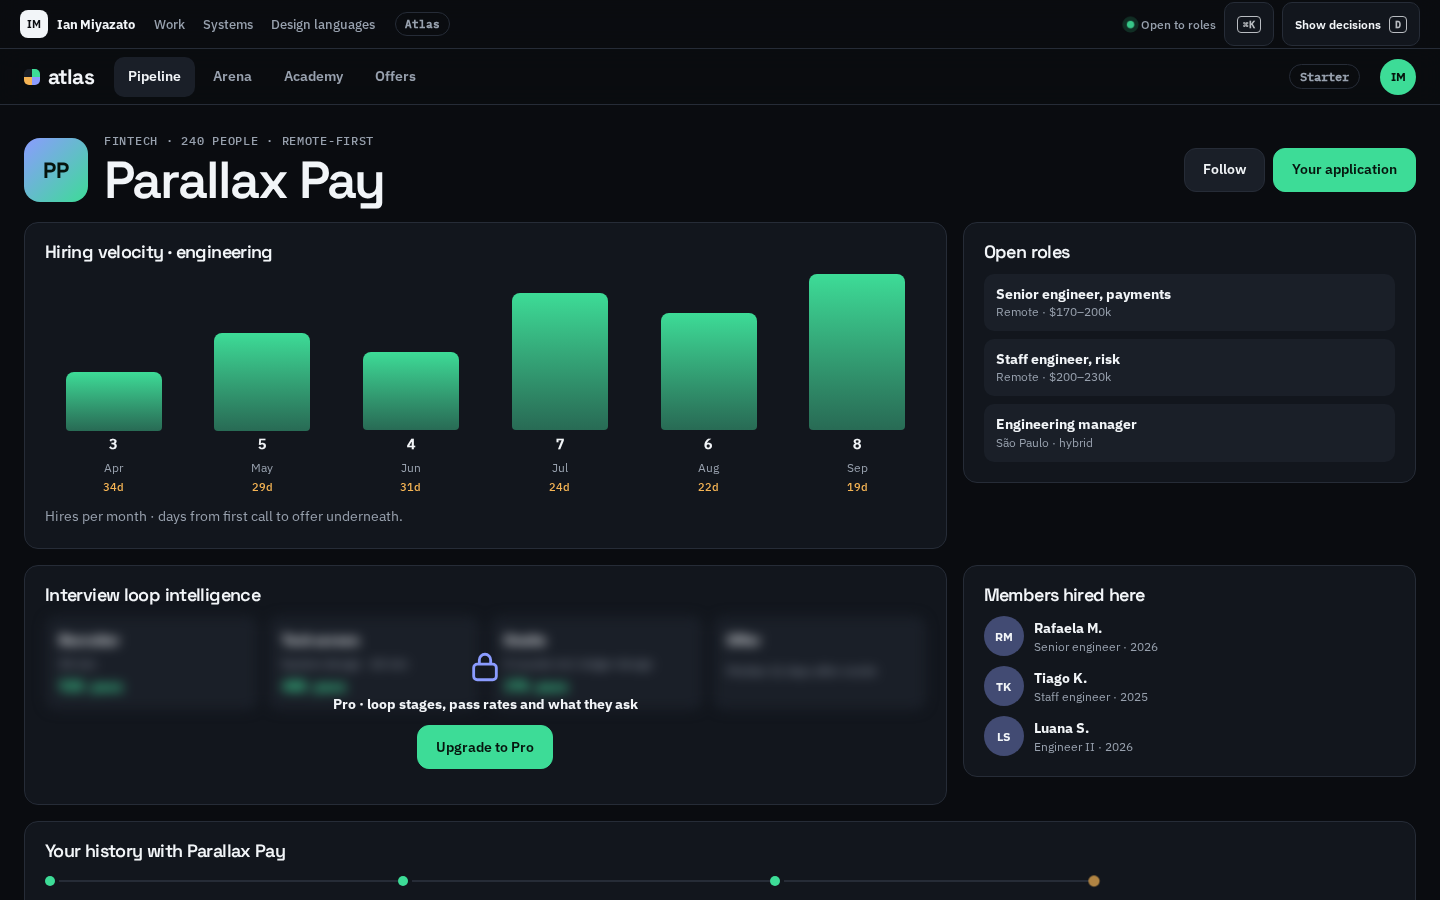
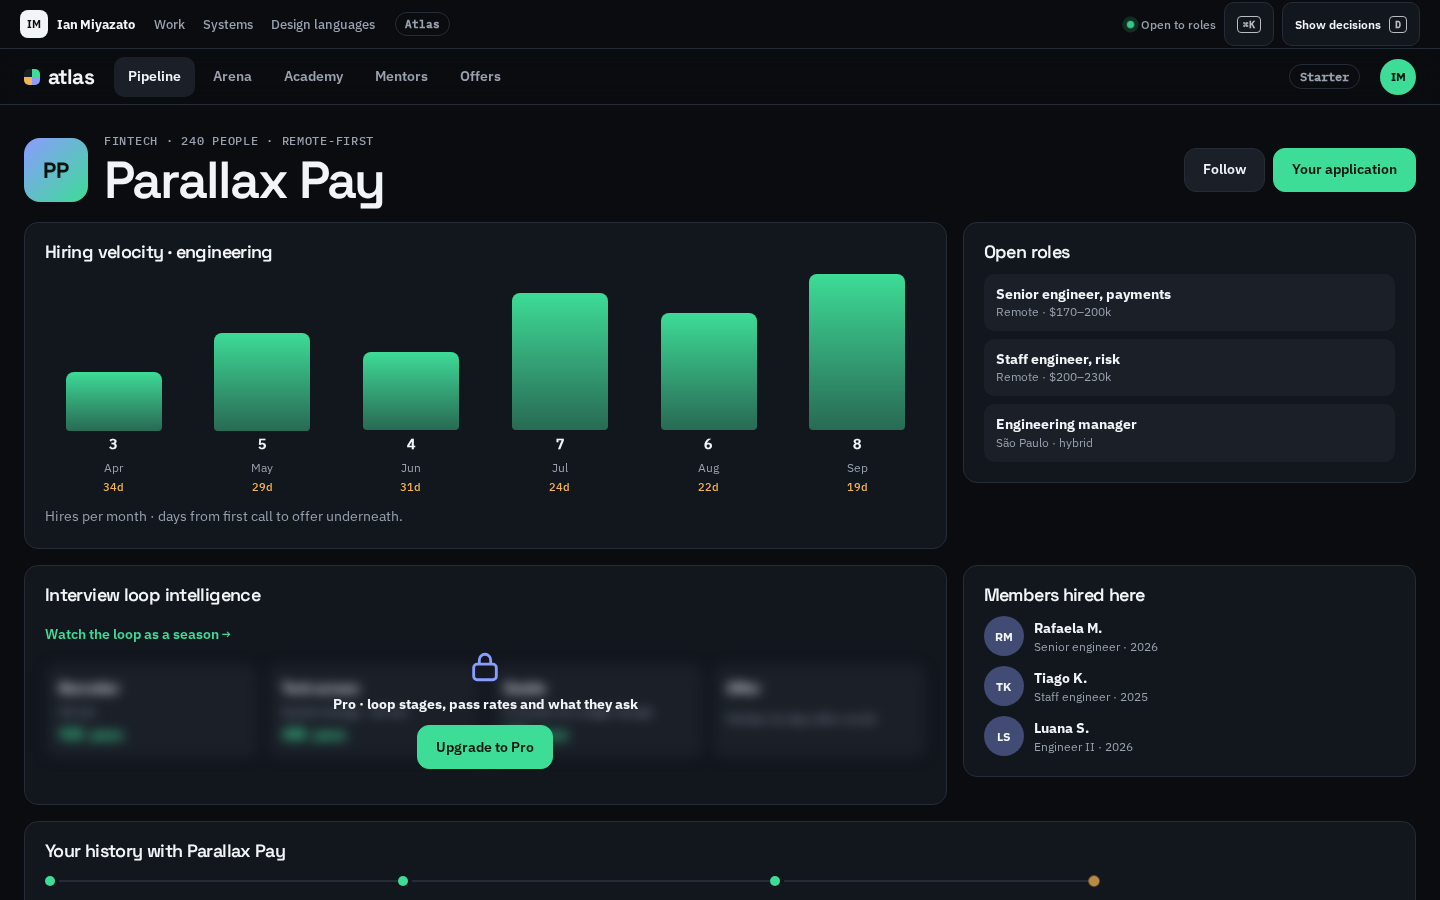
feat(atlas): company interview loop as a season with autoplay into the shared player

diff --git a/apps/shell/components/atlas/loop.tsx b/apps/shell/components/atlas/loop.tsx
@@ -1,0 +1,120 @@
+'use client';
+
+import { useEffect, useState } from 'react';
+import { playQueue } from '@portfolio/chrome/now-playing';
+import { DEFAULT_START, MINUTE, clock } from '@portfolio/world';
+import { ZLink } from '@/components/zone-link';
+import { Layer, closeLayers, openLayer, useDemoState, useParams } from '@/components/overlay';
+import { useSimNow } from '@/lib/world';
+import { loopSeason, weakestArea, type Episode } from '@/lib/atlas';
+import { AtlasHeader } from './header';
+import { TitleArt } from './browse';
+
+const HREF = `/atlas/academy/loops/${loopSeason.slug}`;
+const LABEL = `${loopSeason.company}: The Loop`;
+const NEW_REPORT_AT = DEFAULT_START + 6 * MINUTE;
+const runtime = (minutes: number) => (minutes >= 60 ? `${Math.floor(minutes / 60)} h${minutes % 60 ? ` ${minutes % 60} min` : ''}` : `${minutes} min`);
+
+function play(episodes: Episode[], index: number) {
+  playQueue('atlas', LABEL, HREF, episodes.map((episode) => ({ id: `ep-${episode.n}`, title: `Ep ${episode.n} · ${episode.title}`, subtitle: `${loopSeason.company} · Season ${loopSeason.season}`, seconds: Math.min(episode.minutes, 60) * 60, cover: `E${episode.n}` })), index);
+}
+
+/** "Next episode in 8": counts down, then starts episode 3 on the shared player, unless the member picks practice or stays. */
+function Autoplay({ next, onPlay }: { next: Episode; onPlay: () => void }) {
+  const [left, setLeft] = useState(8);
+  const [stopped, setStopped] = useState(false);
+  useEffect(() => { if (matchMedia('(prefers-reduced-motion: reduce)').matches) setStopped(true); }, []);
+  useEffect(() => {
+    if (stopped) return;
+    if (left <= 0) { onPlay(); setStopped(true); return; }
+    const timer = window.setTimeout(() => setLeft(left - 1), 1000);
+    return () => window.clearTimeout(timer);
+  }, [left, stopped]);
+  return (
+    <aside className="lp-autoplay" aria-labelledby="lp-next-title" data-anchor="lp-autoplay">
+      <span className="lp-ring" aria-hidden="true" style={{ '--p': stopped ? 1 : (8 - left) / 8 } as React.CSSProperties}><b>{stopped ? '▶' : left}</b></span>
+      <div>
+        <span className="at-eyebrow">You finished episode 2</span>
+        <h2 id="lp-next-title">{stopped ? `Up next: episode ${next.n}` : `Next episode in ${left}`}</h2>
+        <p className="at-muted">Ep {next.n} · {next.title} · {runtime(next.minutes)}</p>
+      </div>
+      <div className="lp-autoplay-actions">
+        <button type="button" className="at-btn primary" onClick={() => { setStopped(true); onPlay(); }}>Play now</button>
+        <ZLink className="at-btn" href={`/atlas/arena?modal=setup&prompt=${next.drill}`}>Practice episode {next.n} first</ZLink>
+        {!stopped && <button type="button" className="at-btn" onClick={() => setStopped(true)}>Stay here</button>}
+      </div>
+    </aside>
+  );
+}
+
+export function LoopSeason() {
+  const state = useDemoState();
+  const params = useParams();
+  const now = useSimNow(5000) ?? DEFAULT_START;
+  const assembling = state === 'generating';
+  const [notify, setNotify] = useState(false);
+  const episodes = loopSeason.episodes.map((episode) => ({ ...episode, assembling: assembling && episode.n > 3 }));
+  const ready = episodes.filter((episode) => !episode.assembling);
+  const reports = loopSeason.reports + (now >= NEW_REPORT_AT ? 1 : 0);
+  const open = episodes.find((episode) => String(episode.n) === params.get('episode'));
+  const next = episodes[2]!;
+
+  return (
+    <>
+      <AtlasHeader active="Academy" />
+      <main className="lp" data-anchor="lp-main">
+        <section className="ab-billboard lp-billboard" aria-labelledby="lp-title" data-anchor="lp-billboard">
+          <div className="ab-bb-art" aria-hidden="true"><TitleArt motif="ledger" focus={weakestArea} label={LABEL} shape="cover" /></div>
+          <div className="ab-bb-copy">
+            <span className="ab-new">{assembling ? 'Assembling' : 'New season'} · {ready.length} of 5 episodes</span>
+            <h1 id="lp-title">{loopSeason.company}: The Loop</h1>
+            <p className="ab-facts"><b className="ab-match">{loopSeason.match}% match</b><span>Season {loopSeason.season}</span><span data-anchor="lp-reports">built from {reports} member reports{now >= NEW_REPORT_AT ? ` · new ${clock(NEW_REPORT_AT)}` : ''}</span></p>
+            <p className="ab-blurb">Every round of the Parallax Pay loop as an episode: what they ask, how it&apos;s graded and where people fail, straight from members who sat it this year.</p>
+            <div className="ab-actions">
+              <button type="button" className="at-btn primary ab-play" onClick={() => play(ready, 2)}><span aria-hidden="true">▶</span> Play episode 3</button>
+              {assembling && <button type="button" className="at-btn" aria-pressed={notify} onClick={() => setNotify(!notify)} data-anchor="lp-notify">{notify ? '✓ We’ll notify you' : 'Notify me when complete'}</button>}
+            </div>
+          </div>
+        </section>
+
+        <div className="lp-body">
+          <section className="lp-episodes" aria-labelledby="lp-ep-title" data-anchor="lp-episodes">
+            <h2 id="lp-ep-title">Episodes</h2>
+            <ol>
+              {episodes.map((episode) => (
+                <li key={episode.n} className={`lp-ep ${episode.assembling ? 'is-assembling' : ''}`}>
+                  <button type="button" className="lp-ep-main" onClick={() => openLayer({ episode: String(episode.n) })} disabled={episode.assembling} aria-label={`Episode ${episode.n}: ${episode.title}${episode.assembling ? ', still assembling' : ''}`}>
+                    <span className="lp-num">{episode.n}</span>
+                    <span className="lp-thumb">
+                      {episode.assembling ? <span className="lp-assembling">Needs 2 more reports</span> : <TitleArt motif={episode.motif} focus={weakestArea} label={episode.title} />}
+                      {episode.progress > 0 && <span className="ab-card-progress" role="progressbar" aria-label="Watched" aria-valuemin={0} aria-valuemax={100} aria-valuenow={Math.round(episode.progress * 100)}><i style={{ width: `${episode.progress * 100}%` }} /></span>}
+                    </span>
+                    <span className="lp-copy"><b>{episode.title}</b><small>{runtime(episode.minutes)} · {episode.pass}</small><span>{episode.assembling ? 'Two more member reports and this episode goes live.' : episode.synopsis}</span></span>
+                  </button>
+                </li>
+              ))}
+            </ol>
+          </section>
+          <div className="lp-side">
+            {!assembling && <Autoplay next={next} onPlay={() => play(ready, 2)} />}
+            <section className="at-card lp-passed" aria-labelledby="lp-passed-title" data-anchor="lp-passed">
+              <h2 id="lp-passed-title">Members who passed</h2>
+              <p className="lp-stat"><b>{loopSeason.passed}</b> members this year · median offer <b>{loopSeason.medianOffer}</b></p>
+              <ul className="at-members">{[['RM', 'Rafaela M.', 'Senior engineer · Jun'], ['TK', 'Tiago K.', 'Staff engineer · Apr'], ['LS', 'Luana S.', 'Senior engineer · Aug']].map(([initials, name, role]) => <li key={name}><span className="at-av">{initials}</span><div><strong>{name}</strong><small>{role}</small></div></li>)}</ul>
+            </section>
+          </div>
+        </div>
+      </main>
+
+      {open && !open.assembling && (
+        <Layer kind="modal" title={`Episode ${open.n} · ${open.title}`} eyebrow={`${loopSeason.company} · ${runtime(open.minutes)} · ${open.pass}`} onClose={() => closeLayers(['episode'])} width={620} anchor="lp-episode"
+          footer={<><button type="button" className="at-btn primary" onClick={() => { play(ready, open.n - 1); closeLayers(['episode']); }}>Play episode</button><ZLink className="at-btn" href={`/atlas/arena?modal=setup&prompt=${open.drill}`}>Practice this in Arena</ZLink></>}>
+          <div className="lp-ep-art"><TitleArt motif={open.motif} focus={weakestArea} label={open.title} /></div>
+          <p>{open.synopsis}</p>
+          <h3 className="lp-asked">What members were asked</h3>
+          <ul className="lp-quotes">{open.asked.map((quote) => <li key={quote}><q>{quote}</q></li>)}</ul>
+        </Layer>
+      )}
+    </>
+  );
+}

diff --git a/apps/shell/app/atlas/atlas.css b/apps/shell/app/atlas/atlas.css
@@ -569,3 +569,38 @@
 @keyframes tr-fill { from { transform: scaleX(0); } to { transform: scaleX(1); } }
 @media (prefers-reduced-motion: reduce) { .lm-mentor.on .lm-pulse, .lm-me.is-searching .lm-ring, .lm-steps .now i::after { animation: none; } .lm-route { animation: none; stroke-dashoffset: 0; } }
 @media (max-width: 1000px) { .lm { grid-template-columns: 1fr; padding: 12px 16px 40px; } }
+
+/* Company loop seasons ---------------------------------------------------------------------------- */
+.at-season-link { justify-self: start; display: inline-flex; align-items: center; min-height: 36px; color: var(--accent-text); font-weight: 600; font-size: 14px; }
+.lp-billboard { min-height: 440px; }
+.lp-body { display: grid; grid-template-columns: minmax(0, 1fr) 360px; gap: 20px; padding: 8px 24px 48px; align-items: start; }
+.lp-episodes h2 { margin: 0 0 10px; font: 600 22px var(--font-display); }
+.lp-episodes ol { display: grid; gap: 6px; margin: 0; padding: 0; list-style: none; }
+.lp-ep-main { display: grid; grid-template-columns: 36px 220px minmax(0, 1fr); gap: 16px; align-items: center; width: 100%; padding: 12px; border: 0; border-radius: var(--radius); background: transparent; color: var(--ink); text-align: left; cursor: pointer; }
+.lp-ep-main:hover, .lp-ep-main:focus-visible { background: var(--surface-2); }
+.lp-ep-main:focus-visible { outline: 3px solid var(--accent); outline-offset: 2px; }
+.lp-ep-main:disabled { cursor: default; }
+.lp-num { color: var(--muted); font: 700 28px var(--font-display); text-align: center; }
+.lp-thumb { position: relative; display: block; overflow: hidden; aspect-ratio: 16 / 9; border-radius: var(--radius-sm); background: var(--surface-2); }
+.lp-thumb .ta { display: block; width: 100%; height: 100%; }
+.lp-assembling { display: grid; place-items: center; height: 100%; border: 1px dashed var(--line); border-radius: var(--radius-sm); color: var(--muted); font: 500 12px var(--font-mono); }
+.lp-copy { display: grid; gap: 4px; }
+.lp-copy b { font: 600 17px var(--font-display); }
+.lp-copy small { color: var(--muted); font: 500 12px var(--font-mono); }
+.lp-copy span { font-size: 14px; line-height: 1.5; }
+.lp-ep.is-assembling .lp-copy span { color: var(--muted); }
+.lp-side { position: sticky; top: 124px; display: grid; gap: 14px; }
+.lp-autoplay { display: grid; grid-template-columns: 64px 1fr; gap: 14px; align-items: center; padding: 18px; border: 1px solid var(--accent); border-radius: var(--radius); background: color-mix(in srgb, var(--accent) 8%, var(--surface)); }
+.lp-autoplay h2 { margin: 2px 0; font: 600 20px var(--font-display); }
+.lp-autoplay p { margin: 0; }
+.lp-autoplay-actions { grid-column: 1 / -1; display: flex; flex-wrap: wrap; gap: 8px; }
+.lp-ring { display: grid; place-items: center; width: 64px; height: 64px; border-radius: 50%; background: conic-gradient(var(--accent) calc(var(--p) * 360deg), var(--surface-2) 0); }
+.lp-ring b { display: grid; place-items: center; width: 50px; height: 50px; border-radius: 50%; background: var(--surface); font: 700 22px var(--font-mono); }
+.lp-stat { margin: 0 0 10px; }
+.lp-stat b { color: var(--accent-text); }
+.lp-ep-art { overflow: hidden; margin-bottom: 12px; border-radius: var(--radius-sm); }
+.lp-ep-art .ta { display: block; width: 100%; }
+.lp-asked { margin: 14px 0 6px; font: 600 15px var(--font-display); }
+.lp-quotes { display: grid; gap: 6px; margin: 0; padding: 0; list-style: none; }
+.lp-quotes li { padding: 10px 12px; border-radius: var(--radius-sm); background: var(--surface-2); }
+@media (max-width: 1000px) { .lp-body { grid-template-columns: 1fr; padding: 8px 16px 40px; } .lp-side { position: static; } .lp-ep-main { grid-template-columns: 28px 120px minmax(0, 1fr); gap: 10px; } }

diff --git a/apps/shell/lib/atlas.ts b/apps/shell/lib/atlas.ts
@@ -224,3 +224,17 @@ export const continents = [
   'M610 50 L760 40 L900 60 L930 110 L880 160 L820 200 L790 240 L740 230 L700 220 L650 180 L615 130 Z',
   'M815 290 L880 280 L925 310 L920 350 L870 360 L825 345 Z'
 ];
+
+/* Company loop seasons ---------------------------------------------------------------------------- */
+
+export type Episode = { n: number; title: string; minutes: number; progress: number; motif: Motif; synopsis: string; asked: string[]; pass: string; drill: string; assembling?: boolean };
+export const loopSeason = {
+  company: 'Parallax Pay', slug: 'parallax-pay', season: 2026, match: 94, reports: 14, passed: 6, medianOffer: '$182k',
+  episodes: [
+    { n: 1, title: 'Recruiter screen', minutes: 30, progress: 1, motif: 'feed', synopsis: 'Level calibration, remote setup and notice period. They want a clear story of your last two systems.', asked: ['Walk me through the last system you owned end to end.', 'Why payments, and why now?'], pass: '92% pass', drill: 'conflict' },
+    { n: 2, title: 'Take-home', minutes: 180, progress: 1, motif: 'retry', synopsis: 'Reconcile two CSV exports of card settlements. Idempotency and tests are graded above speed.', asked: ['How does your job behave if it runs twice?', 'What happens with a partial file?'], pass: '71% pass', drill: 'queue-backpressure' },
+    { n: 3, title: 'System design', minutes: 60, progress: 0, motif: 'ledger', synopsis: 'Design a ledger for card payments. Expect reversals, idempotency keys and a 10× Black Friday follow-up.', asked: ['Where does the balance live, and who can write it?', 'A reversal arrives before the capture. Now what?'], pass: '48% pass', drill: 'payments-ledger' },
+    { n: 4, title: 'Coding', minutes: 45, progress: 0, motif: 'limit', synopsis: 'A sliding-window rate limiter. They ask for complexity, tests and what breaks across two regions.', asked: ['Make it work per merchant and per card.', 'How do you test the window edge?'], pass: '55% pass', drill: 'rate-limiter' },
+    { n: 5, title: 'Bar raiser', minutes: 45, progress: 0, motif: 'queue', synopsis: 'Behavioral depth with a senior leader: a decision you got wrong, and what you changed after.', asked: ['Tell me about a disagreement you lost.', 'What would your last manager push you on?'], pass: '37% pass', drill: 'conflict' }
+  ] as Episode[]
+};

diff --git a/tests/e2e/atlas.spec.ts b/tests/e2e/atlas.spec.ts
@@ -161,4 +161,27 @@ test.describe('Atlas', () => {
     await page.getByRole('button', { name: 'Find a mentor' }).click();
     await expect(page.getByRole('dialog', { name: 'No mentor free right now' })).toBeVisible();
   });
+
+  test('loop season: episodes, autoplay to the shared player, and an episode modal', async ({ page }) => {
+    await page.goto('/atlas/academy/loops/parallax-pay?t=16:30&live=paused');
+    await expect(page.getByRole('heading', { level: 1, name: 'Parallax Pay: The Loop' })).toBeVisible();
+    await expect(page.getByText('built from 15 member reports · new 16:24')).toBeVisible();
+    await expect(page.getByRole('heading', { name: /Next episode in \d/ })).toBeVisible();
+    await page.getByRole('button', { name: 'Stay here' }).click();
+    await expect(page.getByRole('heading', { name: 'Up next: episode 3' })).toBeVisible();
+    await page.getByRole('button', { name: 'Play now' }).click();
+    await expect(page.getByRole('region', { name: 'Now playing' }).getByText('Ep 3 · System design')).toBeVisible();
+    await page.getByRole('button', { name: /Episode 4: Coding/ }).click();
+    const modal = page.getByRole('dialog', { name: 'Episode 4 · Coding' });
+    await expect(modal.getByText('Make it work per merchant and per card.')).toBeVisible();
+    await expect(modal.getByRole('link', { name: 'Practice this in Arena' })).toHaveAttribute('href', /prompt=rate-limiter/);
+  });
+
+  test('loop season still being assembled shows the gaps and a notify toggle', async ({ page }) => {
+    await page.goto('/atlas/academy/loops/parallax-pay?state=generating');
+    await expect(page.getByText('Assembling · 3 of 5 episodes')).toBeVisible();
+    await expect(page.getByRole('button', { name: /Episode 5: Bar raiser, still assembling/ })).toBeDisabled();
+    await page.getByRole('button', { name: 'Notify me when complete' }).click();
+    await expect(page.getByRole('button', { name: '✓ We’ll notify you' })).toHaveAttribute('aria-pressed', 'true');
+  });
 });

diff --git a/packages/routes/src/routes.manifest.ts b/packages/routes/src/routes.manifest.ts
@@ -138,6 +138,7 @@ export const routes: RouteEntry[] = [
   { id: 'atlas-wrapped', system: 'atlas', title: 'Atlas Wrapped', href: '/atlas/wrapped', zone: 'shell', owner: shell, board: 'AT-wrapped', heading: 'Atlas Wrapped', release: '0.2', checked: '2026-09-27', mobile: true },
   { id: 'atlas-offers', system: 'atlas', title: 'Offer wallet', href: '/atlas/offers', zone: 'shell', owner: shell, board: 'AT-offers', heading: 'Offers', release: '0.2', checked: '2026-09-27' },
   { id: 'atlas-live-mock', system: 'atlas', title: 'Live mock', href: '/atlas/mentors/live', zone: 'shell', owner: shell, board: 'AT-live', heading: 'Get a mock now', release: '0.2', checked: '2026-09-27' },
+  { id: 'atlas-loop-season', system: 'atlas', title: 'Loop season', href: '/atlas/academy/loops/parallax-pay', zone: 'shell', owner: shell, board: 'AT-seasons', heading: 'Parallax Pay: The Loop', release: '0.2', checked: '2026-09-27' },
   { id: 'atlas-academy-browse', system: 'atlas', title: 'Academy', href: '/atlas/academy', zone: 'shell', owner: shell, board: 'V2-academy', heading: 'Payments at scale', release: '0.2', checked: '2026-09-27' },
   { id: 'atlas-academy', system: 'atlas', title: 'Academy lesson', href: '/atlas/academy/designing-for-10x', zone: 'shell', owner: shell, board: 'AT-lesson', heading: 'Designing for 10', release: '0.1' },
   { id: 'atlas-paywall', system: 'atlas', title: 'Paywall + checkout', href: '/atlas/academy/designing-for-10x?modal=paywall&sub=checkout', zone: 'shell', owner: shell, board: 'AT-paywall', heading: 'Designing for 10', release: '0.1' },

diff --git a/apps/shell/components/atlas/browse.tsx b/apps/shell/components/atlas/browse.tsx
@@ -14,7 +14,7 @@ const estimate: Record<Motif, [string, string]> = {
   limit: ['100', 'req/s · burst 20'], search: ['80ms', 'p95 · top 10'], feed: ['1:5k', 'fan-out · 3 s'], retry: ['3×', 'retries · jitter 200ms']
 };
 
-function TitleArt({ motif, focus, label, shape = 'wide' }: { motif: Motif; focus: RubricArea; label: string; shape?: 'wide' | 'tall' | 'cover' }) {
+export function TitleArt({ motif, focus, label, shape = 'wide' }: { motif: Motif; focus: RubricArea; label: string; shape?: 'wide' | 'tall' | 'cover' }) {
   const base: Record<Motif, ReactNode> = {
     ledger: <>{[0, 1, 2, 3].map((row) => <rect key={row} x="70" y={40 + row * 26} width="180" height="18" rx="4" className="ta-shape" />)}</>,
     cache: <><rect x="50" y="60" width="80" height="60" rx="8" className="ta-shape" /><rect x="190" y="60" width="80" height="60" rx="8" className="ta-shape alt" /><path d="M130 90 H190" className="ta-link" /></>,

diff --git a/apps/shell/components/atlas/company.tsx b/apps/shell/components/atlas/company.tsx
@@ -34,6 +34,7 @@ export function Company() {
           </section>
           <section className={`at-card span-2 at-locked ${pro ? 'unlocked' : ''}`} aria-labelledby="loop-title" data-anchor="at-loop-intel">
             <h2 id="loop-title">Interview loop intelligence</h2>
+            <ZLink className="at-season-link" href="/atlas/academy/loops/parallax-pay" data-anchor="at-season-link">Watch the loop as a season →</ZLink>
             <div className="at-loop" aria-hidden={!pro}>
               {[['Recruiter', '30 min', '92% pass'], ['Tech screen', 'System design · 60 min', '48% pass'], ['Onsite', '4 rounds incl. ledger design', '37% pass'], ['Offer', 'Median 11 days after onsite', '']].map(([stage, detail, rate]) => <div key={stage}><strong>{stage}</strong><span>{detail}</span><b>{rate}</b></div>)}
             </div>

diff --git a/apps/shell/app/atlas/academy/loops/[company]/page.tsx b/apps/shell/app/atlas/academy/loops/[company]/page.tsx
@@ -1,0 +1,5 @@
+import type { Metadata } from 'next';
+import { LoopSeason } from '@/components/atlas/loop';
+export const metadata: Metadata = { title: 'Atlas · Parallax Pay: The Loop', description: 'A company interview loop as a season: every round as an episode, built from member reports.' };
+export function generateStaticParams() { return [{ company: 'parallax-pay' }]; }
+export default function Page() { return <LoopSeason />; }

diff --git a/docs/agents/parity.md b/docs/agents/parity.md
@@ -67,13 +67,14 @@ Every approved screen, the design board it is checked against, and its screensho
 | 59 | `/atlas/wrapped` | AT-wrapped | Atlas | 0.2 | — | ✅ 2026-09-27 | `docs/screenshots/atlas/atlas-wrapped.png` |
 | 60 | `/atlas/offers` | AT-offers | Atlas | 0.2 | — | ✅ 2026-09-27 | `docs/screenshots/atlas/atlas-offers.png` |
 | 61 | `/atlas/mentors/live` | AT-live | Atlas | 0.2 | — | ✅ 2026-09-27 | `docs/screenshots/atlas/atlas-live-mock.png` |
-| 62 | `/atlas/academy` | V2-academy | Atlas | 0.2 | — | ✅ 2026-09-27 | `docs/screenshots/atlas/atlas-academy-browse.png` |
-| 63 | `/atlas/academy/designing-for-10x` | AT-lesson | Atlas | 0.1 | — | ✅ 2026-09-26 | `docs/screenshots/atlas/atlas-academy.png` |
-| 64 | `/atlas/academy/designing-for-10x?modal=paywall&sub=checkout` | AT-paywall | Atlas | 0.1 | modal=paywall sub=checkout | ✅ 2026-09-26 | `docs/screenshots/atlas/atlas-paywall.png` |
-| 65 | `/system-design/atlas` | SD-atlas | Atlas | 0.1 | — | ✅ 2026-09-26 | `docs/screenshots/atlas/system-design-atlas.png` |
-| 66 | `/pulse` | PU-intelligence | Pulse | 0.1 | — | ✅ 2026-09-26 | `docs/screenshots/pulse/pulse-intelligence.png` |
-| 67 | `/pulse/distribution` | PU-distribution | Pulse | 0.1 | — | ✅ 2026-09-26 | `docs/screenshots/pulse/pulse-distribution.png` |
-| 68 | `/pulse/harness` | PU-harness | Pulse | 0.1 | — | ✅ 2026-09-26 | `docs/screenshots/pulse/pulse-harness.png` |
-| 69 | `/system-design/pulse` | SD-pulse | Pulse | 0.1 | — | ✅ 2026-09-26 | `docs/screenshots/pulse/system-design-pulse.png` |
+| 62 | `/atlas/academy/loops/parallax-pay` | AT-seasons | Atlas | 0.2 | — | ✅ 2026-09-27 | `docs/screenshots/atlas/atlas-loop-season.png` |
+| 63 | `/atlas/academy` | V2-academy | Atlas | 0.2 | — | ✅ 2026-09-27 | `docs/screenshots/atlas/atlas-academy-browse.png` |
+| 64 | `/atlas/academy/designing-for-10x` | AT-lesson | Atlas | 0.1 | — | ✅ 2026-09-26 | `docs/screenshots/atlas/atlas-academy.png` |
+| 65 | `/atlas/academy/designing-for-10x?modal=paywall&sub=checkout` | AT-paywall | Atlas | 0.1 | modal=paywall sub=checkout | ✅ 2026-09-26 | `docs/screenshots/atlas/atlas-paywall.png` |
+| 66 | `/system-design/atlas` | SD-atlas | Atlas | 0.1 | — | ✅ 2026-09-26 | `docs/screenshots/atlas/system-design-atlas.png` |
+| 67 | `/pulse` | PU-intelligence | Pulse | 0.1 | — | ✅ 2026-09-26 | `docs/screenshots/pulse/pulse-intelligence.png` |
+| 68 | `/pulse/distribution` | PU-distribution | Pulse | 0.1 | — | ✅ 2026-09-26 | `docs/screenshots/pulse/pulse-distribution.png` |
+| 69 | `/pulse/harness` | PU-harness | Pulse | 0.1 | — | ✅ 2026-09-26 | `docs/screenshots/pulse/pulse-harness.png` |
+| 70 | `/system-design/pulse` | SD-pulse | Pulse | 0.1 | — | ✅ 2026-09-26 | `docs/screenshots/pulse/system-design-pulse.png` |
 
-Parity: **69/69**.
+Parity: **70/70**.

diff --git a/docs/agents/changelog.md b/docs/agents/changelog.md
@@ -4,6 +4,8 @@ One line per merged micro-task, newest first.
 
 ## v0.2
 
+- 2026-09-27 · `feat(atlas)`: Company loop seasons at `/atlas/academy/loops/parallax-pay` (video-streaming series pattern): a billboard for "Parallax Pay: The Loop · Season 2026" built from member reports (a new report arrives live), five episodes (recruiter screen, take-home, system design, coding, bar raiser) with artwork, progress, runtime, pass rate and synopsis, a "next episode in 8" autoplay that starts episode 3 on the shared now-playing bar with "Practice episode 3 first" and "Stay here", members who passed with a median offer, an episode modal with what members were asked, and a still-assembling variation with Notify me; linked from the company page.
+
 - 2026-09-27 · `feat(atlas)`: Live mock match at `/atlas/mentors/live` (ride-hailing pattern), a new Mentors tab: a hand-drawn SVG world map whose online mentors follow their local time on the world clock, a request panel (topic, level, length, language, credits, surge while US and EU demand overlap), expanding match rings and a drawn route, and a bottom sheet with rating, a live "starts in 4 min" ETA, progress segments, quick messages and cancel; variations for a mentor who cancels (automatic rematch) and no supply (waitlist with an estimated wait).
 
 - 2026-09-27 · `feat(atlas)`: Offer wallet at `/atlas/offers` (digital-bank pattern), a new Offers tab: offer cards with net pay hidden until the eye is tapped, a gross → net per month waterfall in reais for a USD contract (FX spread, company taxes, accountant and bank fees, health insurance, suggested reserve) against a BRL counter-offer, an FX scenario slider on a static fixture, a deterministic note that finds the break-even rate, and Accept in a bottom sheet with a biometric-style confirmation that moves the board card, archives five processes with polite notes and sets a contract reminder across tabs; `expiring` variation counts down to 22:00 on the world clock and links from Pipeline.
